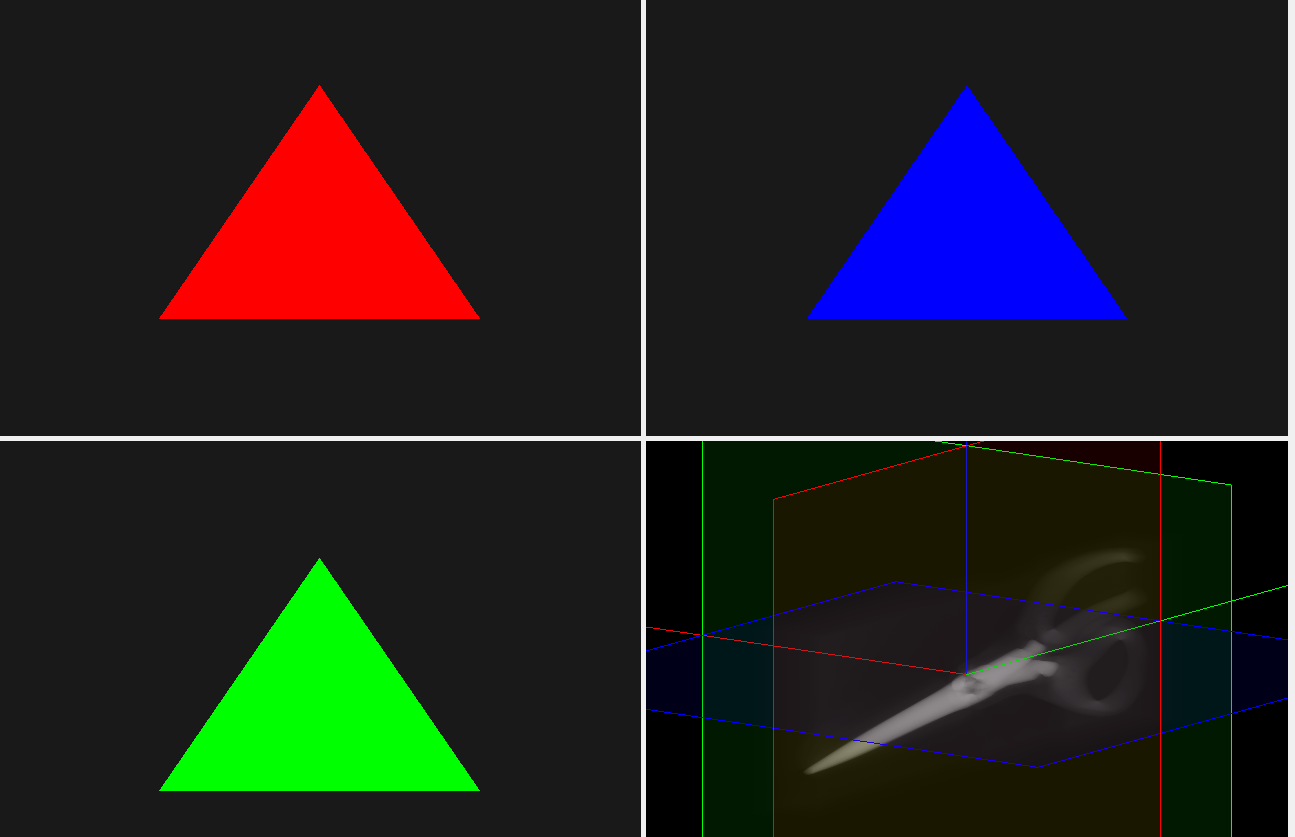
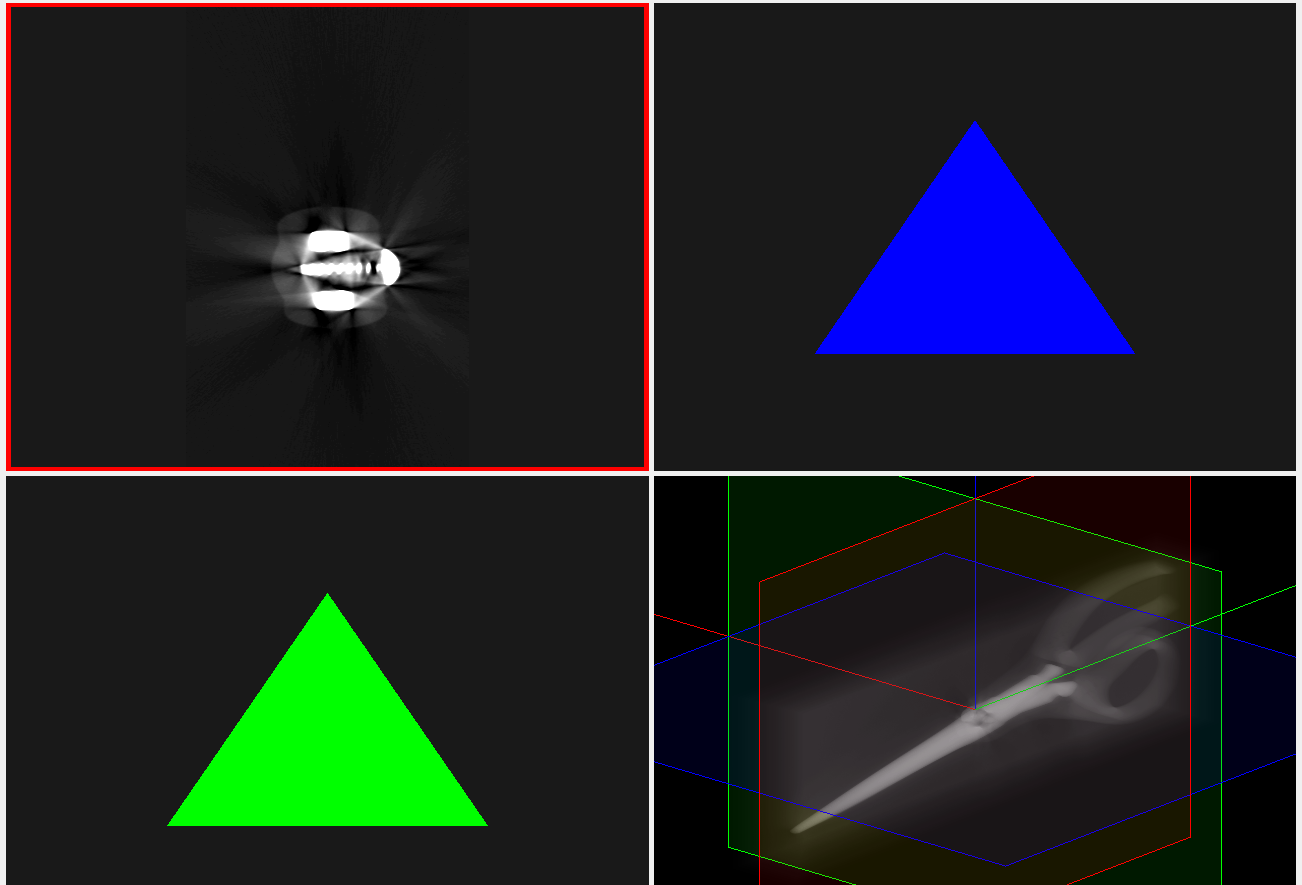
working on views

diff --git a/QuadWidgets/source/glviewquadaxial.cpp b/QuadWidgets/source/glviewquadaxial.cpp
@@ -2,7 +2,7 @@
 #include <shaders.h>
 
 GLViewQuadAxial::GLViewQuadAxial(const QColor& color, QWidget* parent, Context*c)
-    : GLView(parent, c), baseColor(color)
+    : GLView(parent, c), baseColor(color), border(0.015f, color)
 {
 }
 
@@ -13,6 +13,14 @@ GLViewQuadAxial::~GLViewQuadAxial()
     glDeleteVertexArrays(1, &vertex_array_id);
     delete shaderProgram;
     doneCurrent();
+}
+
+void GLViewQuadAxial::UpdateMinMaxVoxelValues(int min, int max)
+{
+    minVoxelThresholdValue = float(min)/ 65535;
+    maxVoxelThresholdValue = float(max)/ 65535;
+
+    update();
 }
 
 void GLViewQuadAxial::initializeGL()
@@ -27,15 +35,13 @@ void GLViewQuadAxial::initializeGL()
     success = shaderProgram->addShaderFromSourceCode(QOpenGLShader::Fragment, fragmentShaderSource.c_str());
     success = shaderProgram->link();
 
-
-
     GLfloat planeVertices[] = {
-       -1.0f,  -1.0f, 0.0f,  
-       1.0f, -1.0f, 0.0f,  
-       1.0f, 1.0f, 0.0f,
-       1.0f, 1.0f, 0.0f,
-       -1.0f, 1.0f, 0.0f,
-       -1.0f, -1.0f, 0.0f,
+       -0.439f, -1.0f, 0.0f, 0,0,
+       0.439f, -1.0f, 0.0f,  1,0,
+        0.439f, 1.0f, 0.0f, 1,1,
+       0.439f, 1.0f, 0.0f, 1,1,
+       -0.439f, 1.0f, 0.0f, 0,1,
+       -0.439f, -1.0f, 0.0f, 0,0
     };
 
     glGenVertexArrays(1, &vertex_array_id);
@@ -45,13 +51,15 @@ void GLViewQuadAxial::initializeGL()
     glBindBuffer(GL_ARRAY_BUFFER, vertex_buffer);
     glBufferData(GL_ARRAY_BUFFER, sizeof(planeVertices), planeVertices, GL_STATIC_DRAW);
 
-    glVertexAttribPointer(0, 3, GL_FLOAT, GL_FALSE, 3 * sizeof(GLfloat), nullptr);
+    glVertexAttribPointer(0, 3, GL_FLOAT, GL_FALSE, 5 * sizeof(GLfloat), (void*)0);
     glEnableVertexAttribArray(0);
+
+    glVertexAttribPointer(1, 2, GL_FLOAT, GL_FALSE, 5 * sizeof(GLfloat), (void*)(3 * sizeof(float)));
+    glEnableVertexAttribArray(1);
 
     glBindBuffer(GL_ARRAY_BUFFER, 0);
     glBindVertexArray(0);
  
-
     const int width = context->volumeData.getHeader()->recoX;
     const int height = context->volumeData.getHeader()->recoY;
     const int depth = context->volumeData.getHeader()->recoZ;
@@ -70,15 +78,22 @@ void GLViewQuadAxial::initializeGL()
     glTexParameteri(GL_TEXTURE_3D, GL_TEXTURE_WRAP_T, GL_CLAMP_TO_EDGE);
     glTexParameteri(GL_TEXTURE_3D, GL_TEXTURE_WRAP_R, GL_CLAMP_TO_EDGE);
 
-    windowWidth = glGetUniformLocation(shaderProgram->programId(), "windowWidth");
-    windowHeight = glGetUniformLocation(shaderProgram->programId(), "windowHeight");
+    zSlice = glGetUniformLocation(shaderProgram->programId(), "zSlice");
+    minVal = glGetUniformLocation(shaderProgram->programId(), "minVal");
+    maxVal = glGetUniformLocation(shaderProgram->programId(), "maxVal");
+
+    shaderProgram->bind();
+    // Set the uniform sampler to use texture unit 1
+    GLuint loc = glGetUniformLocation(shaderProgram->programId(), "volumeTex");
+    glUniform1i(loc, 1);
+
+    shaderProgram->release();
+
+    border.Setup();
 }
 
 void GLViewQuadAxial::resizeGL(int w, int h)
 {
-    windowWidthValue = w;
-    windowHeightValue = h;
-
     glViewport(0, 0, w, h);
 }
 
@@ -88,23 +103,66 @@ void GLViewQuadAxial::paintGL()
     glClear(GL_COLOR_BUFFER_BIT);
 
     shaderProgram->bind();
-    QVector3D colorVec(baseColor.redF(), baseColor.greenF(), baseColor.blueF());
-    shaderProgram->setUniformValue("baseColor", colorVec);
 
-    glUniform1i(windowWidth, windowWidthValue);
-    glUniform1i(windowHeight, windowHeightValue);
+    glUniform1f(minVal, minVoxelThresholdValue);
+    glUniform1f(maxVal, maxVoxelThresholdValue);
+
+    glUniform1f(zSlice, zDistance);
+
+    QVector3D colorVec(baseColor.redF(), baseColor.greenF(), baseColor.blueF());
 
     // Activate texture unit 1 and bind your 3D texture
     glActiveTexture(GL_TEXTURE1);
     glBindTexture(GL_TEXTURE_3D, tex3D);
-
-    // Set the uniform sampler to use texture unit 1
-    GLuint loc = glGetUniformLocation(shaderProgram->programId(), "volumeTex");
-    glUniform1i(loc, 1);
 
     glBindVertexArray(vertex_array_id);
     glDrawArrays(GL_TRIANGLES, 0, 6);
     glBindVertexArray(0);
 
     shaderProgram->release();
+
+    border.Draw();
+}
+
+void GLViewQuadAxial::mouseMoveEvent(QMouseEvent* event)
+{
+    Q_UNUSED(event);
+    setFocus();
+}
+
+void GLViewQuadAxial::mousePressEvent(QMouseEvent* event)
+{
+    Q_UNUSED(event);
+    setFocus();
+}
+
+void GLViewQuadAxial::mouseReleaseEvent(QMouseEvent* event) 
+{
+    Q_UNUSED(event);
+    setFocus();
+}
+void GLViewQuadAxial::keyPressEvent(QKeyEvent* event) 
+{
+    Q_UNUSED(event);
+    setFocus();
+}
+
+void GLViewQuadAxial::enterEvent(QEnterEvent* event) 
+{
+    Q_UNUSED(event);
+    setFocus();
+}
+
+void GLViewQuadAxial::leaveEvent(QEvent* event)
+{
+    Q_UNUSED(event);
+    setFocus();
+}
+
+void GLViewQuadAxial::wheelEvent(QWheelEvent* event) 
+{
+    int deltaY = event->angleDelta().y();
+    zDistance += deltaY * 0.00005f;
+    zDistance = __max(0.0, __min(1.0f, zDistance));
+    update();
 }

diff --git a/QuadWidgets/source/viewBorder.cpp b/QuadWidgets/source/viewBorder.cpp
@@ -1,0 +1,119 @@
+#include <shaders.h>
+#include <viewBorder.h>
+#include <glm/gtc/matrix_transform.hpp>
+#include <glm/gtc/type_ptr.hpp>
+
+ViewBorder::ViewBorder(float w, const QColor& c) : width(w), 
+                                                color(c.redF(), c.greenF(), c.blueF(), c.alphaF())
+{
+}
+
+ViewBorder::~ViewBorder()
+{
+    makeCurrent();
+    glDeleteBuffers(2, vertex_buffer);
+    glDeleteVertexArrays(1, vertex_array_id);
+    glDisableVertexAttribArray(position_attribute);
+    glDisableVertexAttribArray(color_attribute);
+    doneCurrent();
+}
+
+void ViewBorder::Setup()
+{
+    initializeOpenGLFunctions();
+
+    std::string vertexShaderSource = readSourceFile(".\\shaders\\viewBorder.vert");
+    std::string fragmentShaderSource = readSourceFile(".\\shaders\\viewBorder.frag");
+
+    shaderProgram = new QOpenGLShaderProgram(this);
+    bool success = shaderProgram->addShaderFromSourceCode(QOpenGLShader::Vertex, vertexShaderSource.c_str());
+    success = shaderProgram->addShaderFromSourceCode(QOpenGLShader::Fragment, fragmentShaderSource.c_str());
+    success = shaderProgram->link();
+
+    glGenVertexArrays(1, vertex_array_id);
+    glBindVertexArray(vertex_array_id[0]);
+
+    
+
+    GLfloat border[] = {
+            -1, -1, 0,
+            -1 + width, -1, 0,
+            -1 + width, 1, 0,
+            -1 + width, 1, 0,
+            -1, 1, 0,
+            -1, -1, 0,
+
+            -1, -1, 0,
+            1, -1, 0,
+            1, -1 + width, 0,
+            1, -1 + width, 0,
+            -1, -1 + width, 0,
+            -1, -1, 0,
+
+            1, -1, 0,
+            1, 1, 0,
+            1 - width, 1, 0,
+            1 - width, 1, 0,
+            1 - width, -1, 0,
+            1, -1, 0,
+
+            -1, 1, 0,
+            -1, 1 - width, 0,
+            1, 1 - width, 0,
+            1, 1 - width, 0,
+            1, 1, 0,
+            -1, 1, 0
+    };
+
+    GLfloat borderColor[] =
+    {
+        color.r,color.g, color.b, 1.0,
+        color.r,color.g, color.b, 1.0,
+        color.r,color.g, color.b, 1.0,
+        color.r,color.g, color.b, 1.0,
+        color.r,color.g, color.b, 1.0,
+        color.r,color.g, color.b, 1.0,
+        color.r,color.g, color.b, 1.0,
+        color.r,color.g, color.b, 1.0,
+        color.r,color.g, color.b, 1.0,
+        color.r,color.g, color.b, 1.0,
+        color.r,color.g, color.b, 1.0,
+        color.r,color.g, color.b, 1.0,
+        color.r,color.g, color.b, 1.0,
+        color.r,color.g, color.b, 1.0,
+        color.r,color.g, color.b, 1.0,
+        color.r,color.g, color.b, 1.0,
+        color.r,color.g, color.b, 1.0,
+        color.r,color.g, color.b, 1.0,
+        color.r,color.g, color.b, 1.0,
+        color.r,color.g, color.b, 1.0,
+        color.r,color.g, color.b, 1.0,
+        color.r,color.g, color.b, 1.0,
+        color.r,color.g, color.b, 1.0,
+        color.r,color.g, color.b, 1.0,
+    };
+
+    glGenBuffers(2, vertex_buffer);
+
+    glBindBuffer(GL_ARRAY_BUFFER, vertex_buffer[0]);
+    glBufferData(GL_ARRAY_BUFFER, sizeof(border), border, GL_STATIC_DRAW);
+    position_attribute = glGetAttribLocation(shaderProgram->programId(), "vPosition");
+    glVertexAttribPointer(position_attribute, 3, GL_FLOAT, GL_FALSE, 0, (void*)nullptr);
+    glEnableVertexAttribArray(position_attribute);
+
+    glBindBuffer(GL_ARRAY_BUFFER, vertex_buffer[1]);
+    glBufferData(GL_ARRAY_BUFFER, sizeof(borderColor), borderColor, GL_STATIC_DRAW);
+    color_attribute = glGetAttribLocation(shaderProgram->programId(), "vColor");
+    glVertexAttribPointer(color_attribute, 4, GL_FLOAT, GL_FALSE, 0, (void*)nullptr);
+    glEnableVertexAttribArray(color_attribute);
+}
+
+void ViewBorder::Draw()
+{
+    shaderProgram->bind();
+
+    glBindVertexArray(vertex_array_id[0]);
+    glDrawArrays(GL_TRIANGLES, 0, 24);
+
+    shaderProgram->release();
+}

diff --git a/QuadWidgets/include/glviewquadaxial.h b/QuadWidgets/include/glviewquadaxial.h
@@ -4,6 +4,7 @@
 #include <QOpenGLShaderProgram>
 #include <QColor>
 #include <GLView.h>
+#include <viewBorder.h>
 
 class GLViewQuadAxial : public GLView
 {
@@ -12,23 +13,34 @@ public:
     explicit GLViewQuadAxial(const QColor& color, QWidget* parent, Context* c);
     ~GLViewQuadAxial();
 
+    void UpdateMinMaxVoxelValues(int min, int max);
+
 protected:
     void initializeGL() override;
     void resizeGL(int w, int h) override;
     void paintGL() override;
 
+    void mouseMoveEvent(QMouseEvent* event) override;
+    void mousePressEvent(QMouseEvent* event) override;
+    void mouseReleaseEvent(QMouseEvent* event) override;
+    void keyPressEvent(QKeyEvent* event) override;
+    void enterEvent(QEnterEvent* event) override;
+    void leaveEvent(QEvent* event) override;
+    void wheelEvent(QWheelEvent* event) override;
+
 private:
     QOpenGLShaderProgram* shaderProgram = nullptr;
     QColor baseColor;
+    float minVoxelThresholdValue;
+    float maxVoxelThresholdValue;
+    float zDistance;
 
     GLuint vertex_array_id;
     GLuint vertex_buffer;
-    GLint position_attribute = -1;
     GLuint tex3D;
+    GLuint zSlice;
+    GLuint minVal;
+    GLuint maxVal;
 
-    GLuint windowWidth;
-    GLuint windowHeight;
-
-    int windowWidthValue;
-    int windowHeightValue;
+    ViewBorder border;
 };

diff --git a/QuadWidgets/include/viewBorder.h b/QuadWidgets/include/viewBorder.h
@@ -1,0 +1,32 @@
+#pragma once
+
+#include <memory>
+#include <QOpenGLWidget>
+#include <QOpenGLFunctions_3_3_Core>
+#include <QOpenGLShaderProgram>
+#include <glm/glm.hpp>
+#include <render_object.h>
+#include <io/ioData.h>
+
+class ViewBorder : public QOpenGLWidget, protected QOpenGLFunctions_3_3_Core
+{
+private:
+    QOpenGLShaderProgram* shaderProgram = nullptr;
+   	GLuint vertex_array_id[1];
+    GLuint vertex_buffer[2];
+	GLint position_attribute = -1;
+	GLint color_attribute = -1;
+
+    glm::vec4 color;
+    float width;
+
+public:
+
+    ViewBorder(float w, const QColor& color);
+    ~ViewBorder();
+
+    void Setup();
+    void Draw();
+};
+
+

diff --git a/QuadWidgets/quadwidgets.cpp b/QuadWidgets/quadwidgets.cpp
@@ -116,6 +116,7 @@ QuadWidgets::QuadWidgets(QWidget *parent)
                 }
 
                 glViewQuad3d->UpdateMinMaxVoxelValues(value, ui.maxVoxelValueSlider->value());
+                glViewQuadAxial->UpdateMinMaxVoxelValues(value, ui.maxVoxelValueSlider->value());
             }
         );
 
@@ -133,6 +134,7 @@ QuadWidgets::QuadWidgets(QWidget *parent)
             }
 
             glViewQuad3d->UpdateMinMaxVoxelValues(ui.minVoxelValueSlider->value(), value);
+            glViewQuadAxial->UpdateMinMaxVoxelValues(ui.minVoxelValueSlider->value(), value);
         }
     );
 
